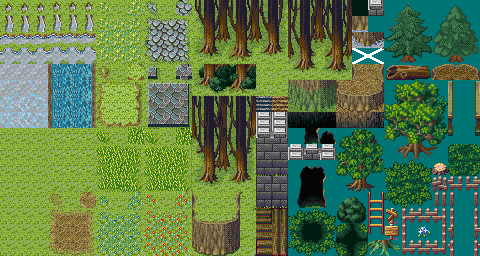
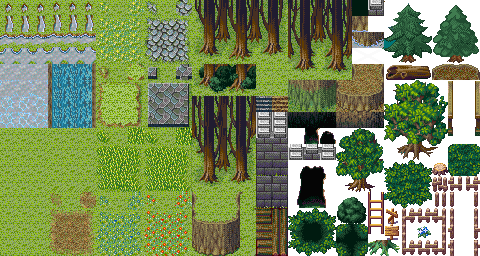
added license and debug, removed OpenGL, updated graphics

Changed region(s): [[0.5938, 0.0, 1.0, 1.0], [0.5938, 0.9688, 0.7188, 1.0], [0.5938, 0.9062, 0.625, 0.9375]]

diff --git a/src/ukta_init.cpp b/src/ukta_init.cpp
@@ -2,62 +2,17 @@
 
 bool Ukta::Init() {
 
-	if(SDL_Init(SDL_INIT_EVERYTHING) < 0) {
-		return false;
-	}
-
-/* OpenGL context begin */
-	/* These settings need to be set *before* calling SDL_SetVideoMode */
-	SDL_GL_SetAttribute(SDL_GL_RED_SIZE,           8);
-	SDL_GL_SetAttribute(SDL_GL_GREEN_SIZE,         8);
-	SDL_GL_SetAttribute(SDL_GL_BLUE_SIZE,          8);
-	SDL_GL_SetAttribute(SDL_GL_ALPHA_SIZE,         8);
-
-	SDL_GL_SetAttribute(SDL_GL_DEPTH_SIZE,        16);		// color depth (should be 16/32)
-	SDL_GL_SetAttribute(SDL_GL_BUFFER_SIZE,       32);
-	
-	SDL_GL_SetAttribute(SDL_GL_ACCUM_RED_SIZE,     8);
-	SDL_GL_SetAttribute(SDL_GL_ACCUM_GREEN_SIZE,   8);
-	SDL_GL_SetAttribute(SDL_GL_ACCUM_BLUE_SIZE,    8);
-	SDL_GL_SetAttribute(SDL_GL_ACCUM_ALPHA_SIZE,   8);
-	
-	SDL_GL_SetAttribute(SDL_GL_DOUBLEBUFFER,       1);		// Activate Doublebuffering
-	SDL_WM_SetCaption( "LOL", "ROFL" );						// Arguments: WindowCaption, TaskbarTitle
-	
-	/* BOTH of these functions cause Ukta::Init() to FAIL! */
-	//	SDL_GL_SetAttribute(SDL_GL_MULTISAMPLEBUFFERS, 1);
-	//	SDL_GL_SetAttribute(SDL_GL_MULTISAMPLESAMPLES, 2);		// AA setting
-/* OpenGL context end */
-
-//	if((surfDisplay = SDL_SetVideoMode(GAME_X_RES, GAME_Y_RES, 32, SDL_HWSURFACE | SDL_DOUBLEBUF)) == NULL)						// without   OpenGL
-	if((surfDisplay = SDL_SetVideoMode(GAME_X_RES, GAME_Y_RES, 32, SDL_HWSURFACE | SDL_GL_DOUBLEBUFFER | SDL_OPENGL)) == NULL)	// implement OpenGL
+	if(SDL_Init( SDL_INIT_AUDIO | SDL_INIT_VIDEO ) < 0)		// SDL_INIT_EVERYTHING
 	{
 		return false;
 	}
 
-/* Actually start OpenGL begin */
-	// Parameters: R, G, B, Alpha
-	glClearColor(0, 0, 0, 0);
-	// The depth buffer is used to determine the Z-axis of a pixel
-	glClearDepth(1.0f);		// ??
-	// Viewport = Window area for OpenGL
-	// Arguments: X, Y, width, height
-	glViewport(0, 0, GAME_X_RES, GAME_Y_RES);
-	
-	glMatrixMode(GL_PROJECTION);
-	glLoadIdentity();							// "reset matrix"
-	
-	// Arguments: Left, Right, Bottom, Top, Near, Far
-	// Set up a "2D Perspective"
-	// For 2D use glOrtho; For 3D use gluPerspective
-	glOrtho(0, GAME_X_RES, GAME_Y_RES, 0, 1, -1);
-	
-	glMatrixMode(GL_MODELVIEW);
-	
-	glEnable(GL_TEXTURE_2D);
-	
-	glLoadIdentity();
-/* Actually start OpenGL end */
+	SDL_WM_SetCaption( "UkTA", "UkTA" );	// WindowCaption, TaskbarTitle
+
+	if((surfDisplay = SDL_SetVideoMode(GAME_X_RES, GAME_Y_RES, 32, SDL_HWSURFACE | SDL_DOUBLEBUF)) == NULL)
+	{
+		return false;
+	}
 	
 	return true;
 }

diff --git a/src/ukta.h b/src/ukta.h
@@ -1,6 +1,8 @@
 #ifndef UKTA_H_
 #define UKTA_H_
 
+#define DEBUG true
+
 #include <iostream>
 #include <SDL/SDL.h>
 #include <GL/gl.h>
@@ -13,19 +15,23 @@ class Ukta {
 	
 	bool		gameRunning;
 	SDL_Surface*	surfDisplay;
-	static const int GAME_X_RES = 800;
-	static const int GAME_Y_RES = 600;
+	static const int GAME_X_RES = 640;
+	static const int GAME_Y_RES = 480;
 	
 public:
+	//
 	Ukta();
 	int Execute();
 	
+	//	
 	bool Init();
 	void Event(SDL_Event* sdl_event);
 	void Loop();
 	void Render();
 	void Cleanup();
 	
+	// util
+	//void DrawPixel(SDL_Surface*, Uint8, Uint8, Uint8);
 };
 
 #endif

diff --git a/src/ukta.cpp b/src/ukta.cpp
@@ -8,7 +8,7 @@ Ukta::Ukta() {
 int Ukta::Execute() {
 	if(Init() == false) {
 		cout << "Init failed!\n";
-		return -1;
+		return 1;
 	}
 
 	SDL_Event sdl_event;
@@ -26,9 +26,11 @@ int Ukta::Execute() {
 }
 
 int main(int argc, char* argv[]) {
-	Entity* entity = new Entity();
-	Player* player = new Player();
-	Monster* monster = new Monster();
+	if (DEBUG) {
+		Entity* entity = new Entity();
+		Player* player = new Player();
+		Monster* monster = new Monster();
+	}
 
 	Ukta myUkta;
 	return myUkta.Execute();

diff --git a/src/ukta_render.cpp b/src/ukta_render.cpp
@@ -1,16 +1,8 @@
 #include "ukta.h"
 
 void Ukta::Render() {
-	glClear(GL_COLOR_BUFFER_BIT | GL_DEPTH_BUFFER_BIT);
-	glLoadIdentity();
-	glBegin(GL_QUADS);
-		glColor3f(1, 0, 0); glVertex3f(0,     0,   0);
-		glColor3f(0, 0, 1); glVertex3f(100,   0,   0);
-		glColor3f(0, 1, 0); glVertex3f(100, 100,   0);
-		glColor3f(0, 0, 0); glVertex3f(0,   100,   0);
-	glEnd();
+
 	
-	SDL_GL_SwapBuffers();
-	
+		
 }
 

diff --git a/src/entity.cpp b/src/entity.cpp
@@ -1,3 +1,4 @@
+#include "ukta.h"
 #include "entity.h"
 
 unsigned Entity::nextID = 1;
@@ -7,7 +8,8 @@ Entity::Entity() {
 	entityID = nextID;
 	nextID ++ ;
 
-	std::cout << "called Entity constructor. entityID:" << entityID << " nextID:" << nextID << "\n";
+	if (DEBUG)
+		std::cout << "called Entity constructor. entityID:" << entityID << " nextID:" << nextID << "\n";
 
 }
 

diff --git a/src/player.cpp b/src/player.cpp
@@ -1,8 +1,10 @@
+#include "ukta.h"
 #include "player.h"
 
 Player::Player() : Character::Character () {
 
-	std::cout << "called Player constructor. Who to slay?\n";
+	if (DEBUG)
+		std::cout << "called Player constructor. Who to slay?\n";
 
 }
 

diff --git a/src/monster.cpp b/src/monster.cpp
@@ -1,8 +1,10 @@
+#include "ukta.h"
 #include "monster.h"
 
 Monster::Monster() : Character::Character () {
 
-	std::cout << "called Monster constructor. ROAR!\n";
+	if (DEBUG)
+		std::cout << "called Monster constructor. ROAR!\n";
 
 }
 

diff --git a/src/ukta_loop.cpp b/src/ukta_loop.cpp
@@ -1,6 +1,6 @@
 #include "ukta.h"
 
 void Ukta::Loop() {
-
+	
 }
 
